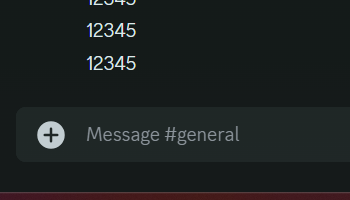
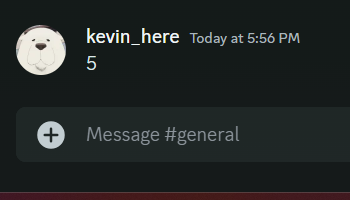
Version 0.0 Testing is needed

diff --git a/CountingBot.py b/CountingBot.py
@@ -5,122 +5,98 @@ import pytesseract
 import keyboard
 import time
 from PIL import Image
-import imagehash
+import threading
 
+# Ensure required packages are installed:
+# pip install pynput imagehash opencv-python numpy pyautogui pillow pytesseract keyboard
 
-#pip install imagehash
-#pip install opencv-python
-#pip install numpy
-#pip install pyautogui
-#pip install pillow
-#pip install opencv-python
-#pip install pytesseract
-#pip install keyboard
+# Note: Install the tesseract training dataset from https://github.com/UB-Mannheim/tesseract/wiki
+# Add "C:\\Program Files\\Tesseract-OCR\\tesseract.exe" to your PATH environment variable
 
-
-
-# need to install the train data set on tesseract
-# https://github.com/UB-Mannheim/tesseract/wiki
-# "C:\Program Files\Tesseract-OCR\tesseract.exe" Add to your path env
-
-
-class autoText: 
+class AutoTextBot:
     def __init__(self):
-        pyautogui.FAILSAFE = True
-        
-    def nav_and_take(self):
-        pass
+        pyautogui.FAILSAFE = False
+        self.tesseract_path = 'C:\\Program Files\\Tesseract-OCR\\tesseract.exe'
+        pytesseract.pytesseract.tesseract_cmd = self.tesseract_path
+
+    @staticmethod
+    def locate_image(image_path, confidence=0.9):
+        try:
+            location = pyautogui.locateOnScreen(image_path, confidence=confidence)
+            if location:
+                print("Image found at:", location)
+                return location
+            else:
+                print("Image not found")
+                return None
+        except Exception as e:
+            print("Error locating image:", e)
+            return None
+
+    @staticmethod
+    def contains_image(template_path, screenshot_path, threshold=0.9):
+        try:
+            template = cv2.imread(template_path)
+            screenshot = cv2.imread(screenshot_path)
+            result = cv2.matchTemplate(screenshot, template, cv2.TM_CCOEFF_NORMED)
+            _, max_val, _, _ = cv2.minMaxLoc(result)
+            return max_val > threshold
+        except Exception as e:
+            print("Error in image comparison:", e)
+            return False
+
+    @staticmethod
+    def extract_text_from_image(image_path):
+        try:
+            img = Image.open(image_path)
+            text = pytesseract.image_to_string(img)
+            return text
+        except Exception as e:
+            print("Error extracting text from image:", e)
+            return ""
+
+    def run(self,inputlcation,userIcon ):
+        event = threading.Event()
+
+        def stop():
+            event.set()
+            print("Stopping bot...")
+
+        keyboard.add_hotkey("esc", stop)
+
+        while not event.is_set():
+            image_path_match = inputlcation 
+
+            location = self.locate_image(image_path_match)
+            if not location:
+                break
+
+            x, y, width, height = int(location.left), int(location.top )- 100, 350, 200
+            screenshot = pyautogui.screenshot(region=(x, y, width, height))
+            screenshot_path = r'boxofCompare.png'
+            screenshot.save(screenshot_path)
+
+            user_icon_path = userIcon 
+            has_image = self.contains_image(user_icon_path, screenshot_path)
+
+            if not has_image:
+                text = self.extract_text_from_image(screenshot_path)
+                print("Extracted text:", text)
+
+                try:
+                    numbers = [int(item) for item in text.split() if item.isdigit()]
+                    number_to_type = numbers[0] + 1 if numbers else 1
+
+                    pyautogui.click(x + width / 2, y + 100)
+                    keyboard.write(str(number_to_type))
+                    keyboard.press_and_release('enter')
+                    pyautogui.moveTo(0, 0)
+                except Exception as e:
+                    print("Error typing or clicking:", e)
+
+            time.sleep(5)
 
 if __name__ == '__main__':
     
-    # nees this path to ran the train data
-    pytesseract.pytesseract.tesseract_cmd = 'C:\\Program Files\\Tesseract-OCR\\tesseract.exe'
-    
-    pyautogui.FAILSAFE = False
-    
-    #-------------------------------------------------------------------------------------------
-    while True: 
-        if keyboard.is_pressed('ctrl'):
-            break
-            pyautogui.FAILSAFE = True
-        #This could be a funtion to
-        # 
-        # 
-        # ask for location
-        # force use of ImageNotFoundException
-        window_title = "Discord"
-        target_window = pyautogui.getWindowsWithTitle(window_title)[0]
-        target_window.activate()
-            
-            
-        try:
-            image_path_Match = r'C:\Users\kevin\OneDrive\Desktop\DiscordCountBot\countLocation.png'  # Replace with the path to your image
-            location = pyautogui.locateOnScreen(image_path_Match, confidence=0.9)
-            if location:
-                print("Image found at:", location)
-            else:
-                print("Image not found")
-                break
-        except pyautogui.ImageNotFoundException:
-            print('Image not found on the screen.')
-            break
-        except Exception as e:
-            print("Error:", e)
-        time.sleep(6)
-        #This next step could be check if it has my next icon on screen shot location
-
-        # need to play data location 
-        x = location[0]  # X-coordinate of the top-left corner
-        y = location[1]-100  # Y-coordinate of the top-left corner 
-        #The in take of Y- coordinate should have 100 less
-        print("------------------------")
-        print(location[1])
-        width = 350  # Width of the region
-        height = 200  # Height of the region
-
-        # Take the screenshot
-        screenshot = pyautogui.screenshot(region=(int(x), int(y), int(width), int(height)))
-
-        # Save the screenshot
-        screenshot.save("boxofCompare.png")
-        
-        # this could make into a function and reutrn true and False
-        def contains_image(image, template):
-            result = cv2.matchTemplate(image, template, cv2.TM_CCOEFF_NORMED)
-            _, max_val, _, _ = cv2.minMaxLoc(result)
-            return max_val > 0.8  # Adjust threshold as needed
-
-        image = cv2.imread(r'C:\Users\kevin\OneDrive\Desktop\DiscordCountBot\userIcon.png')
-        template = cv2.imread(r'C:\Users\kevin\OneDrive\Desktop\DiscordCountBot\boxofCompare.png')
-
-        #set back to true/ i need to test------------------------
-        hasImage=False
-        if contains_image(image, template):
-            #hasImage = True
-            print("The image contains the template.")
-        else:
-            print("The image does not contain the template.")
-            hasImage= False
-        
-        if hasImage==False:
-                imag = cv2.imread(r'C:\Users\kevin\OneDrive\Desktop\DiscordCountBot\boxofCompare.png')
-                gray = cv2.cvtColor(imag, cv2.COLOR_BGR2GRAY)
-
-                # Performing OTSU threshold
-                _, thresh_image = cv2.threshold(gray, 150, 255, cv2.THRESH_BINARY)
-                cv2.imwrite('preprocessed_image.jpg', thresh_image)
-                extracted_text = pytesseract.image_to_string(thresh_image)
-
-                aNew= extracted_text.split("\n") 
-                print(aNew)
-                
-                pyautogui.click(x+location[3]/2,y+100)
-                # Write a number 
-                keyboard.write('12345')
-                
-                # Press enter
-                keyboard.press_and_release('enter')
-                pyautogui.moveTo(0, 0)
-                
-
-        
+    bot = AutoTextBot()
+    bot.run(r'countLocation.png',r'userIcon.png')
